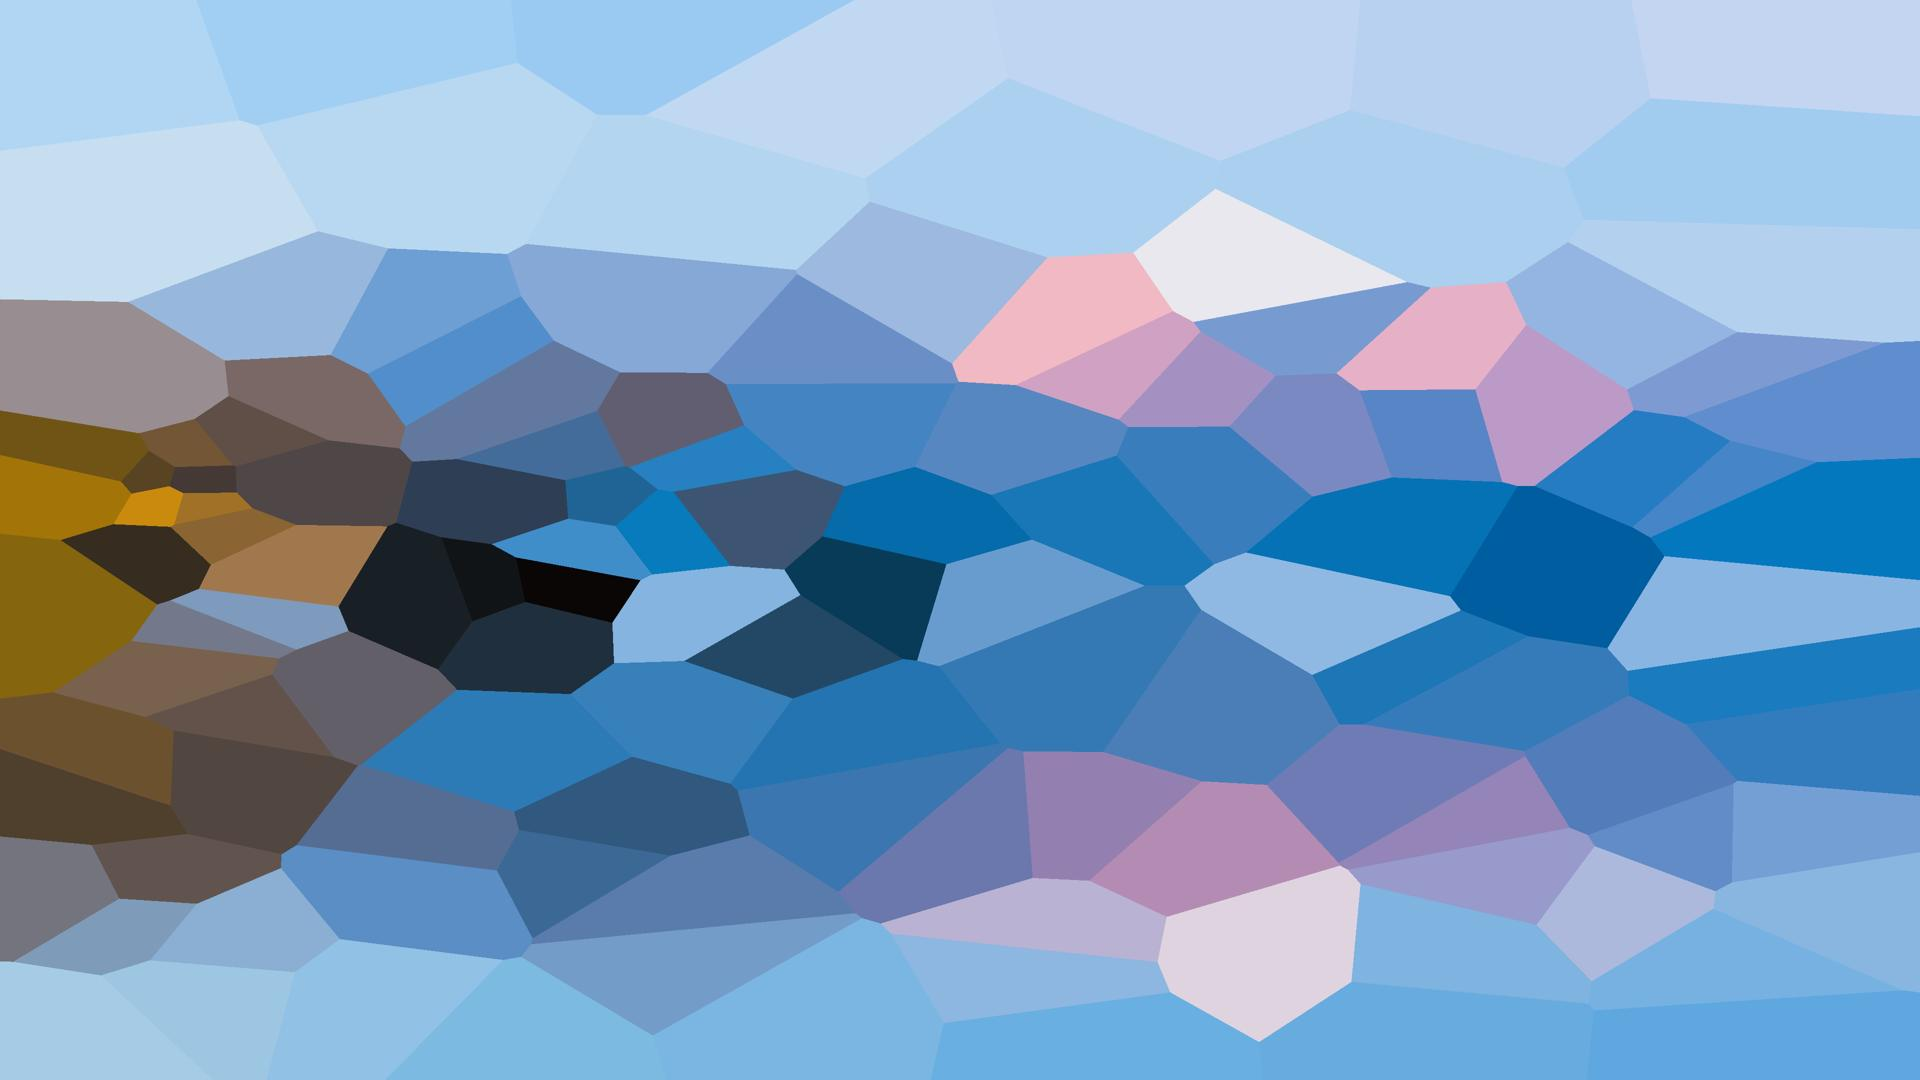
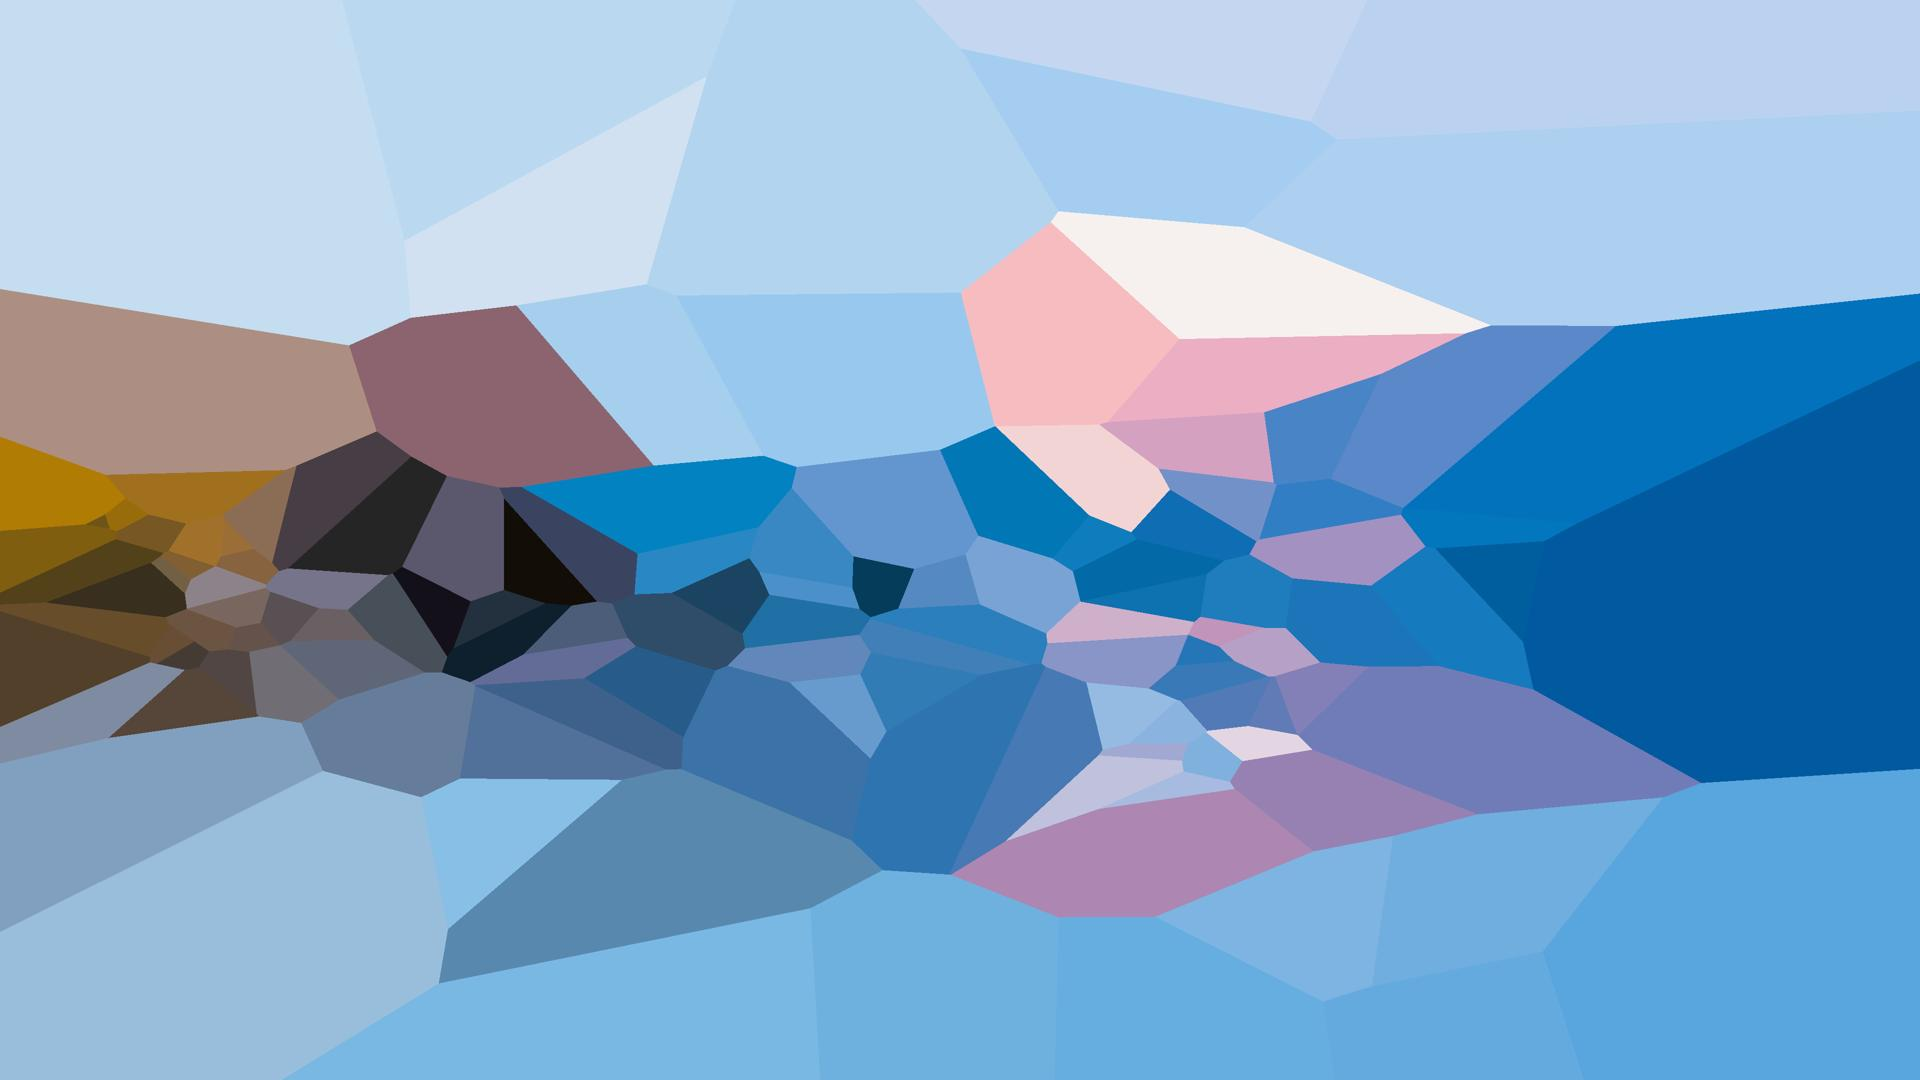
Change to Lab colorspace
Update colorspace

diff --git a/src/k_means_voronoi.py b/src/k_means_voronoi.py
@@ -6,32 +6,32 @@ from sklearn.neighbors import NearestNeighbors
 import colour
 
 
-def rgb_to_oklab(image: np.ndarray) -> np.ndarray:
+def rgb_to_lab(image: np.ndarray) -> np.ndarray:
     """
-    Convert an RGB image to OKLab color space.
+    Convert an RGB image to Lab color space.
 
     Args:
     - image: Numpy array representing the image in the RGB color space.
 
     Returns:
-    - Numpy array representing the image in the OKLab color space.
+    - Numpy array representing the image in the Lab color space.
     """
     image = colour.RGB_to_XYZ(image, colourspace="sRGB")
-    image = colour.XYZ_to_Oklab(image)
+    image = colour.XYZ_to_Lab(image)
     return image
 
 
-def oklab_to_rgb(image: np.ndarray) -> np.ndarray:
+def lab_to_rgb(image: np.ndarray) -> np.ndarray:
     """
-    Convert an OKLab image array back to RGB color space.
+    Convert an Lab image array back to RGB color space.
 
     Args:
-    - image: Numpy array representing the image in the OKLab color space.
+    - image: Numpy array representing the image in the Lab color space.
 
     Returns:
     - Numpy array representing the image in the RGB color space.
     """
-    image = colour.Oklab_to_XYZ(image)
+    image = colour.Lab_to_XYZ(image)
     image = colour.XYZ_to_RGB(image, colourspace="sRGB")
     return image
 
@@ -54,7 +54,7 @@ def cluster_image(
     Returns:
     - Tuple of the image shape, the fitted KMeans cluster centers (including their original positions), and their pixel positions.
     """
-    oklab = rgb_to_oklab(np.array(image))
+    oklab = rgb_to_lab(np.array(image))
     original_shape = oklab.shape
     pixels = oklab.reshape(-1, 3)
     xy = np.indices(dimensions=(original_shape[0], original_shape[1])).reshape(2, -1).T
@@ -108,7 +108,7 @@ def create_image_from_position_clusters(
 
     # Reconstruct the image
     new_image_array = closest_centroid_colors.reshape(generation_shape[:2] + (3,))
-    new_image = Image.fromarray(oklab_to_rgb(new_image_array).astype(np.uint8))
+    new_image = Image.fromarray(lab_to_rgb(new_image_array).astype(np.uint8))
 
     return new_image.resize(shape, Image.BICUBIC)
 
@@ -141,14 +141,10 @@ def segment_image(
 
 
 if __name__ == "__main__":
-    image_path = "../images/originals/portal2.jpg"
-    save_path = "../images/processed/portal2.png"
+    image_path = "../examples/k_means_voronoi/landscape.jpg"
     image = Image.open(image_path)
-    n_clusters = 128 * 8
 
-    # Segment the image
-    segmented_image = segment_image(image, n_clusters)
-
-    # Save and show the segmented image
-    segmented_image.save(save_path)
-    segmented_image.show()
+    for n_clusters in [16, 128, 512, 2048]:
+        save_path = f"../examples/k_means_voronoi/segmented_{n_clusters}_landscape.jpg"
+        segmented_image = segment_image(image, n_clusters)
+        segmented_image.save(save_path)

diff --git a/README.md b/README.md
@@ -6,6 +6,8 @@ This repo showcases some of my experiments with generative art.
 
 [The script](src/k_means_voronoi.py) generates a Voronoi diagram using a k-means clustering algorithm. It clusters pixels from an image and then generates a Voronoi diagram based on the cluster centers. The images are generated by using the cluster center color only in the pixel position space.
 
+The script converts the color space of the image to the LAB color space before clustering. This is done to make the clustering more perceptually accurate. I found that using the OKLab color space made the images too coherent, so I decided to use the LAB color space instead I like the results better.
+
 ### Examples
 
 #### Original Image
